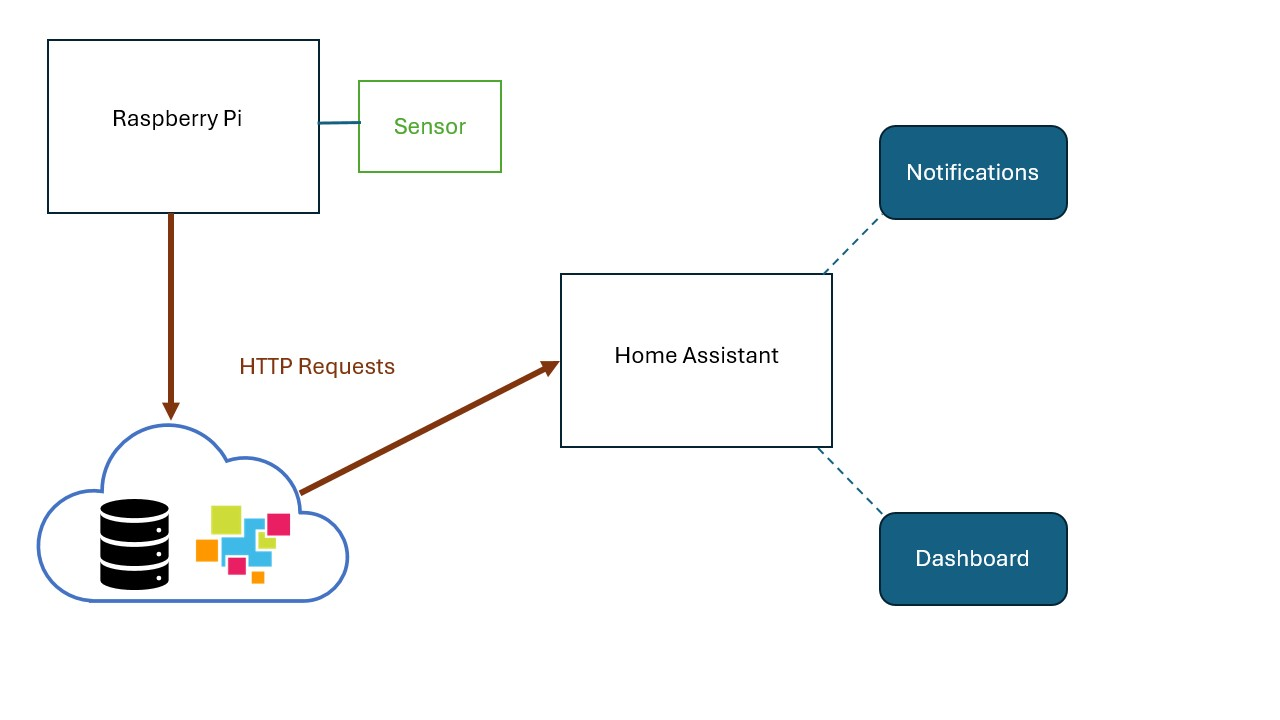
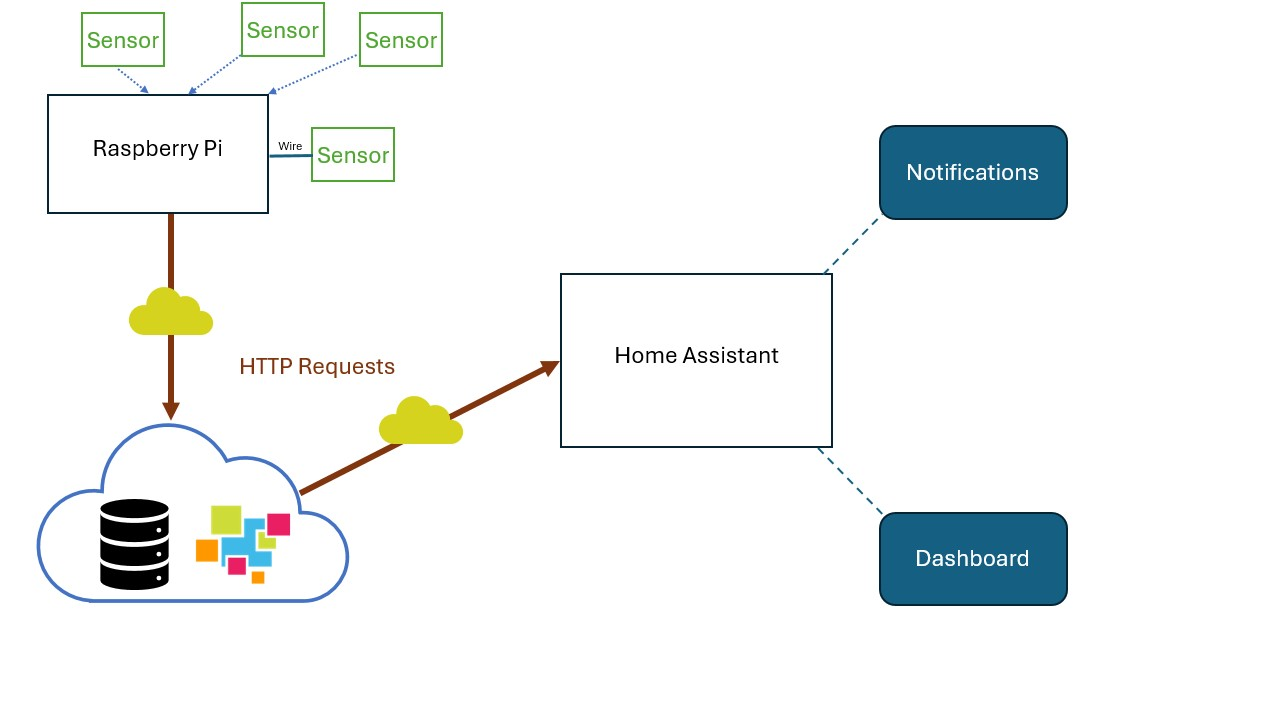
fixed content to change diagram and add more notes about cloud holding raw data

diff --git a/README.md b/README.md
@@ -1,8 +1,8 @@
 ![featured image](images/air.jpeg)
 
-Despite humanity's (lackluster) efforts, climate change has become an omnipresent, undeniable force. Though there are many side effects that come with a rising global average temperature, today I want to focus on wildfires and their affect on the air quality of all surrounding areas. And indeed, when a 100-acre-fire is burning up a California forest, all of that debris and particle matter are kicked up into the atmosphere, becoming potentially dangerous, inhalable matter.
+Despite humanity's (lackluster) efforts, climate change has become an omnipresent, undeniable force. Though there are many side effects that come with a rising global average temperature, today I want to focus on wildfires and their affect on the air quality of all surrounding areas; when a 100-acre-fire is burning up a Californian forest, all of that debris and particle matter get kicked up into the atmosphere, becoming potentially dangerous, inhalable matter.
 
-Of course, there are various other factors which can (and do) contribute to the quality of the air we breathe. To me, this means that even if there isn't a wildfire nearby causing spikes in AQI (Air Quality Index), there is still a reason to be informed and aware of what the air quality is like at any given moment.
+Of course, there are various *other* factors which can (and do) contribute to the quality of the air we breathe. To me, this means that even if there isn't a wildfire nearby causing spikes in AQI (Air Quality Index), there is still a reason to be informed and aware of what the air quality is like at any given moment.
 
 ## The Project
 
@@ -10,11 +10,13 @@ For this article, we were interested in measuring the air quality inside of our 
 
 To accomplish our goal, we sought to integrate GridDB Cloud with the open source smart home solution known as [Home Assistant](https://www.home-assistant.io/). If you are unfamiliar, Home Assistant is an "Internet of things (IoT) ecosystem-independent integration platform and central control system for smart home devices, with a focus on local control". Typically, end users install the software onto their home servers to control aspects of their internet-connected physical devices. As an example, one might install Home Assistant to act as their smart hub to control their smart light bulbs, smart robovac, etc.
 
-The beauty of Home Assistant is in its versatility and flexibility. For instance, because it's completely open source and built for tinkerers/developers, users can roll their own solutions for their own specific use cases, and build their own automations. For our case, we were interested in being able to query GridDB Cloud's sensor data and then being able to notify those who live in the same space as the sensor that the air quality is approaching dangerous levels in some tangible way.
+The beauty of Home Assistant is in its versatility and flexibility. For instance, because it's completely open source and built for tinkerers/developers, users can roll their own solutions for their own specific use cases, and build their own automations. For our case, we were interested in being able to save all of the raw, unfiltered sensor data into GridDB Cloud at a resolution of 1 reading/second, and then using the Home Assistant to query the values needed to do what we want, eventually being able to notify those who live in the same space as the sensor that the air quality is approaching dangerous levels in some tangible way. 
 
 ### Project Specifics and the PM1 Particle
 
-To propel the project forward, we have connected an air quality sensor -- [Adafruit PMSA003I Air Quality Breakout](https://www.adafruit.com/product/4632) -- to a raspberry pi. We send the sensor readings up to GridDB Cloud every 1 second via HTTP Request. With our data being saved into persistent storage with GridDB Cloud, we can make HTTP Requests to query our dataset with `SQL Select statements`. In this case, we want to use Home Assistant to query our dataset to alert us of higher than normal particle matters in the air at our locations. We also want to include an easy to read sensor reading right on our Home Assistant home dashboard.
+The idea goes like this, we use a single board computer to connect to a sensor which will capture raw air quality data. We then send that raw data into GridDB cloud at a resolution of 1/second. Our Home Assistant can then query the data and downsample whatever information is necessary to accomplish our goal.
+
+To begin, we have connected an air quality sensor -- [Adafruit PMSA003I Air Quality Breakout](https://www.adafruit.com/product/4632) -- to a raspberry pi. We then use a python script to read and send the sensor readings up to GridDB Cloud every 1 second via HTTP Request. With our data being saved into persistent storage with GridDB Cloud, we can make HTTP Requests to query our dataset with `SQL Select statements`. In this case, we want to use Home Assistant to query our dataset to alert us of higher than normal particle matters in the air at our locations. We also want to include an easy to read sensor reading right on our Home Assistant dashboard with rolling averages.
 
 ![diagram](/images/Diagram.jpg)
 
